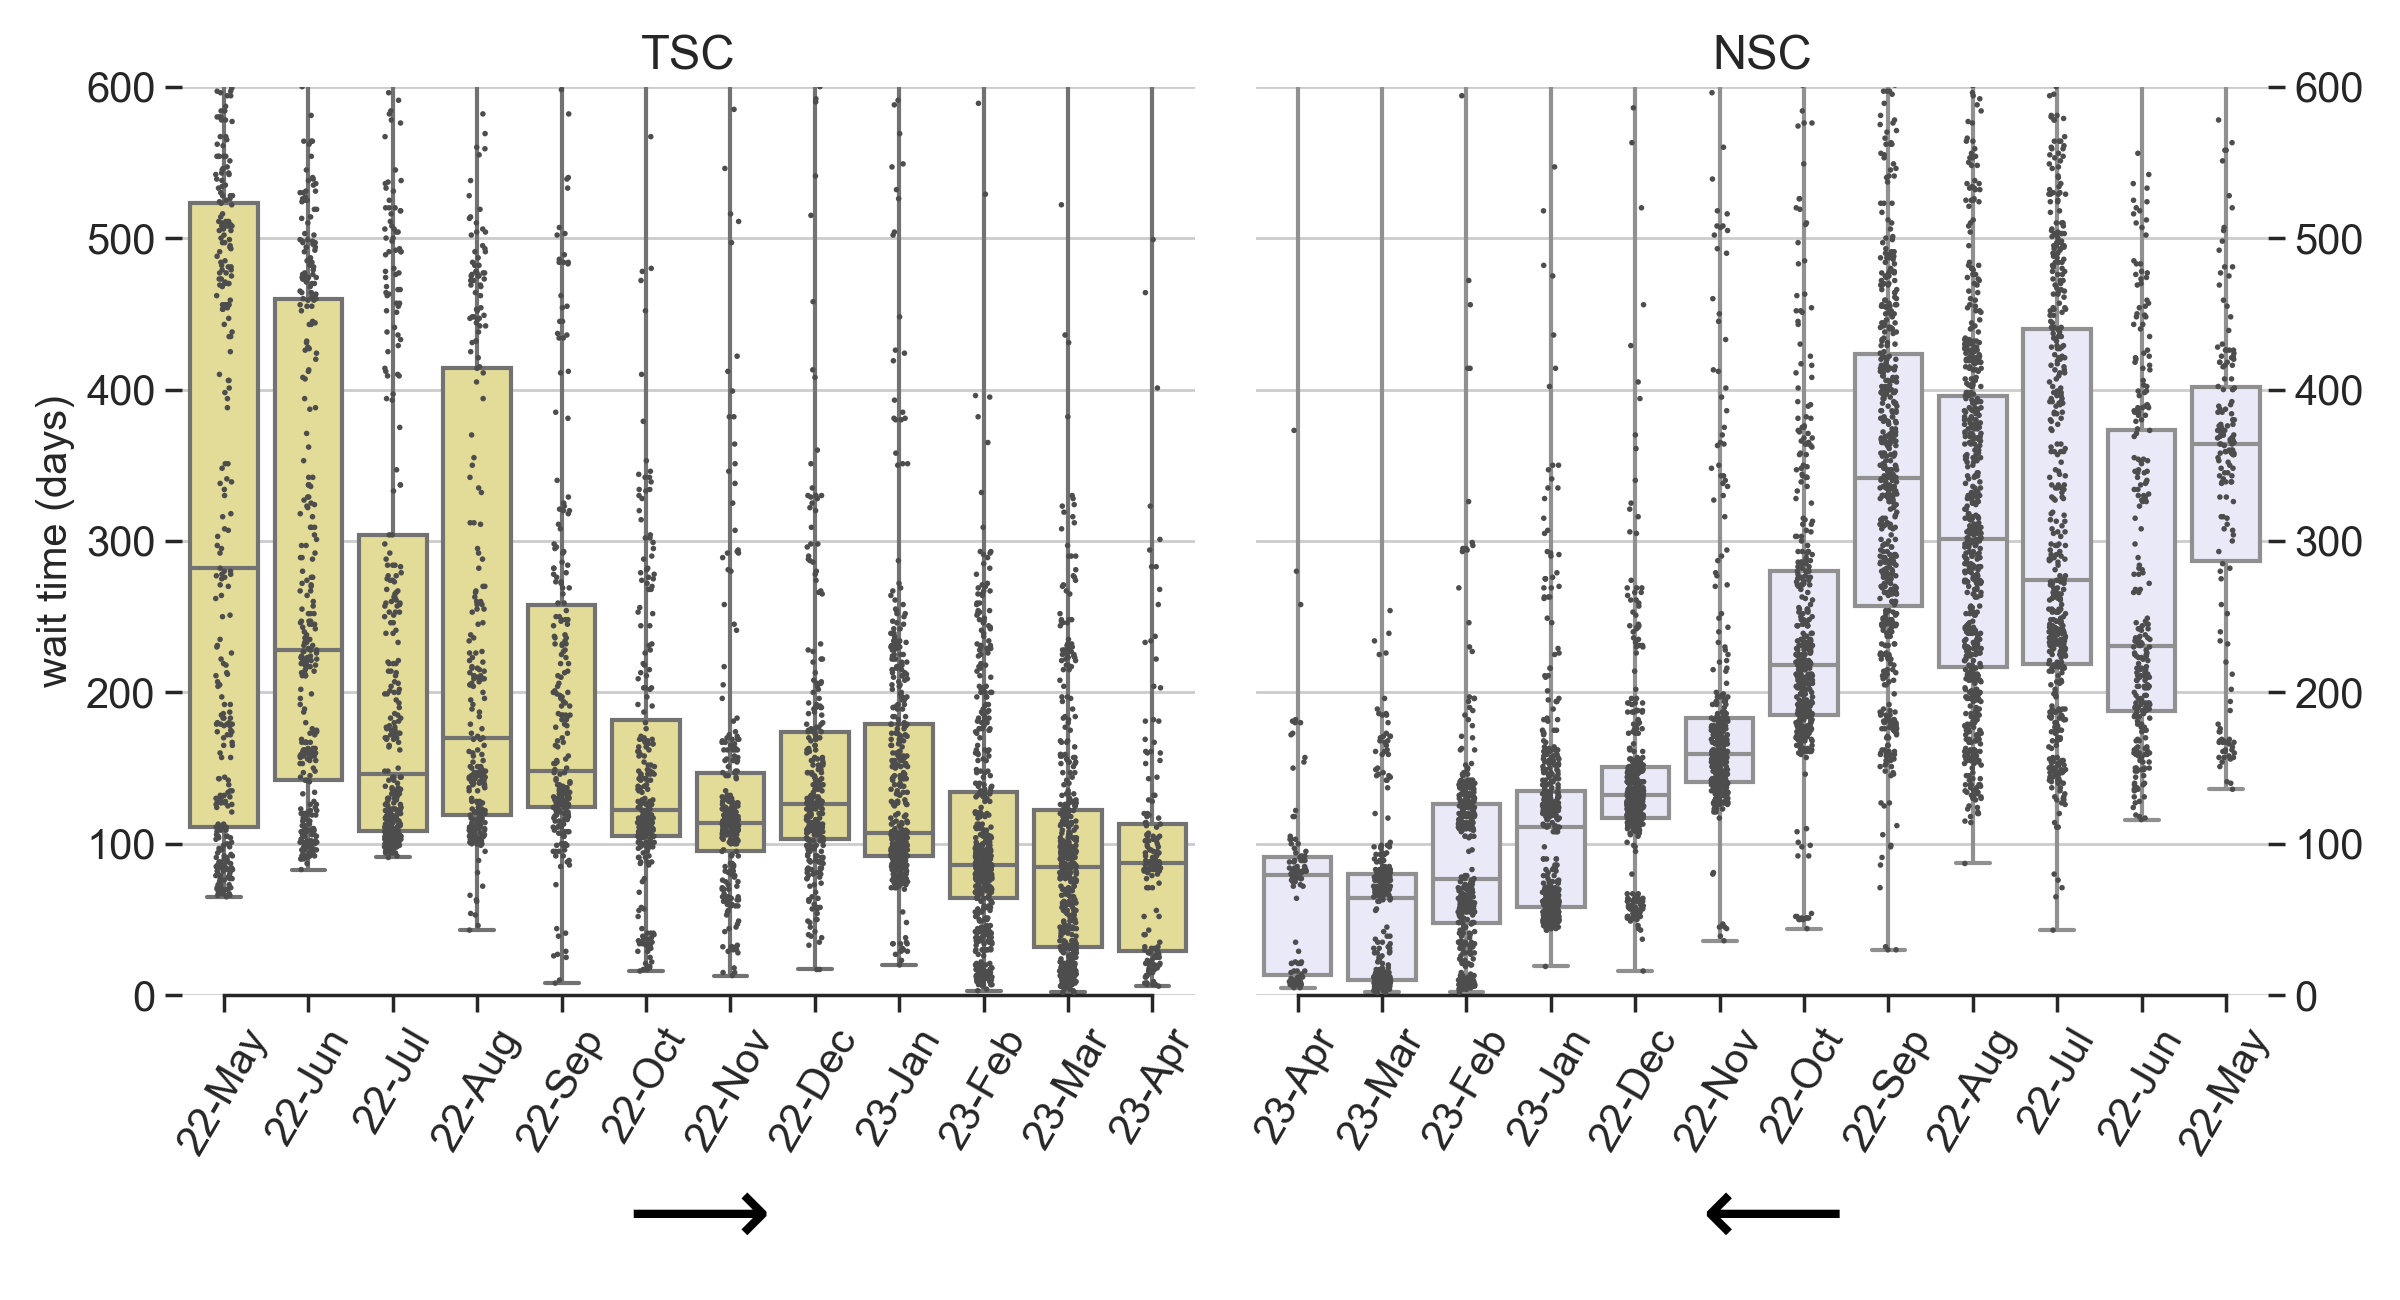
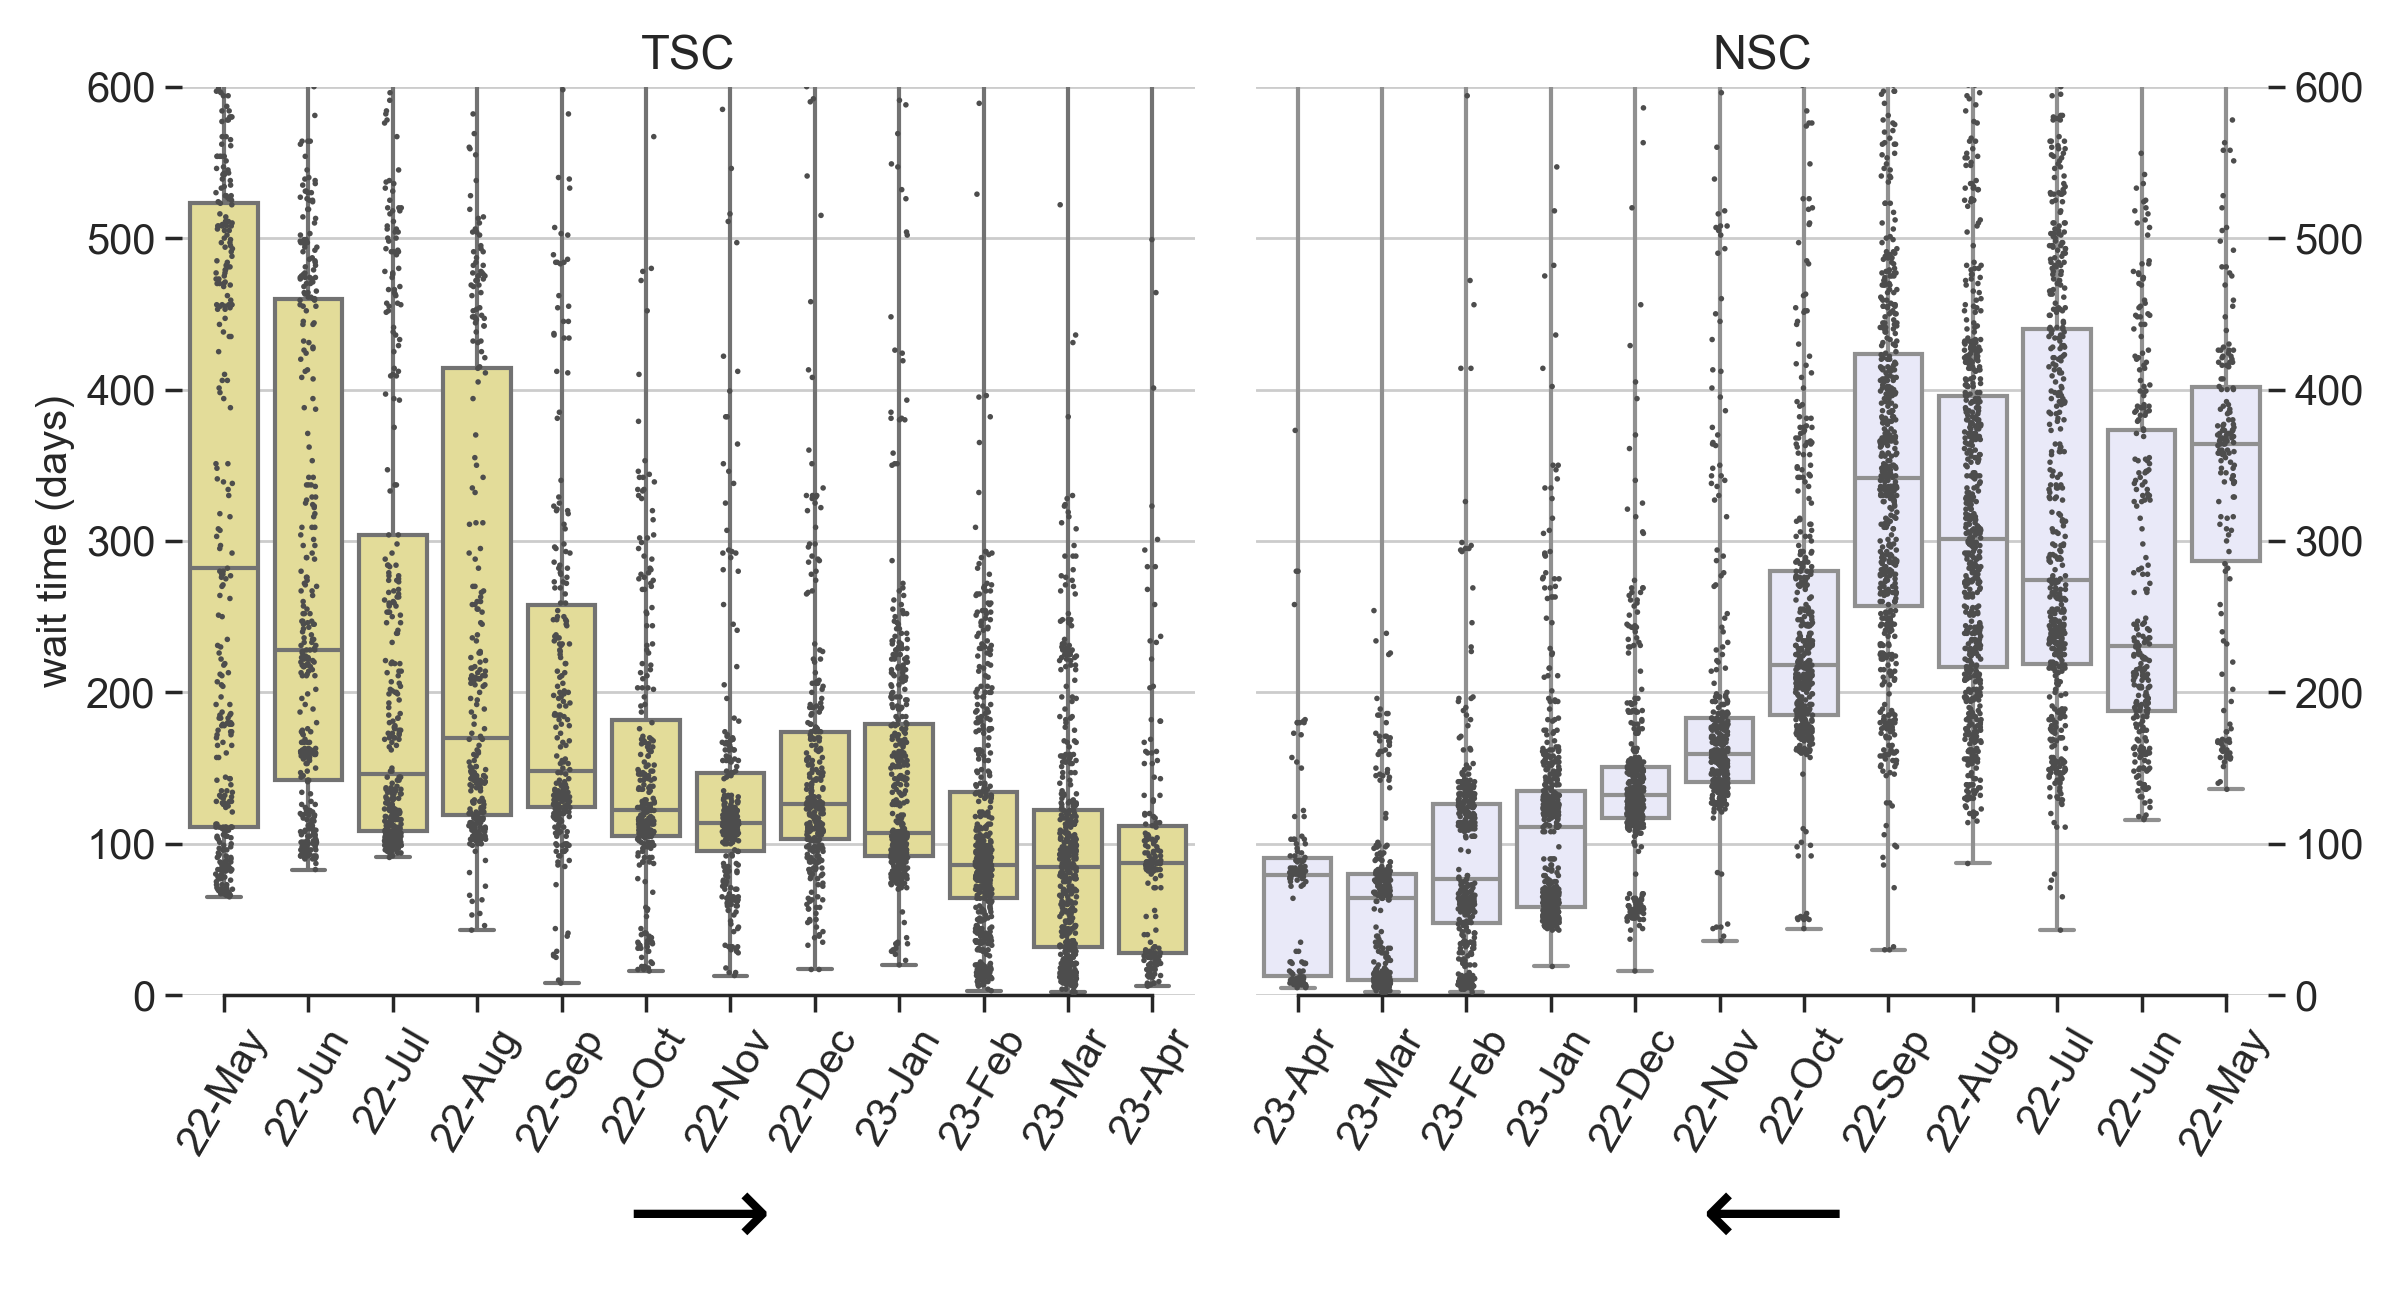
Jul-02 update

diff --git a/README.md b/README.md
@@ -1,4 +1,4 @@
-## National Interest Waiver Wait Time, updated Jun-27-2023 
+## National Interest Waiver Wait Time, updated Jul-02-2023 
 * If you wish to join our Telegram action group to discuss the delays of processing at TSC, please [fill out this form](https://docs.google.com/forms/d/194Vp6uimucdul6iqtNFB1HSKz_z75RKsQ-cp3z7f8YY/viewform?edit_requested=true).
  
 USCIS Employment-based-2 NIW I-140 wait time before approval (data source: [Victoria Chen](https://www.wegreened.com/eb1_niw_approvals)). 
